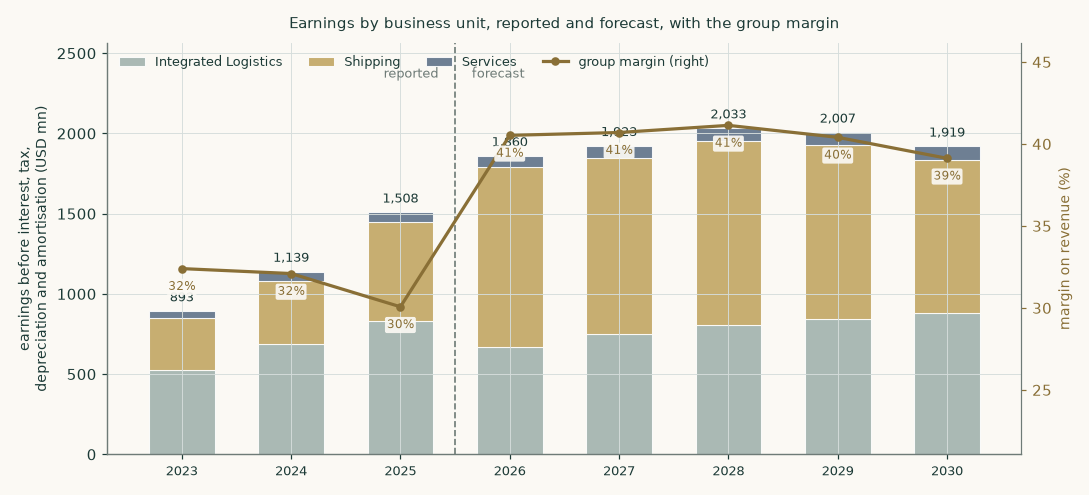
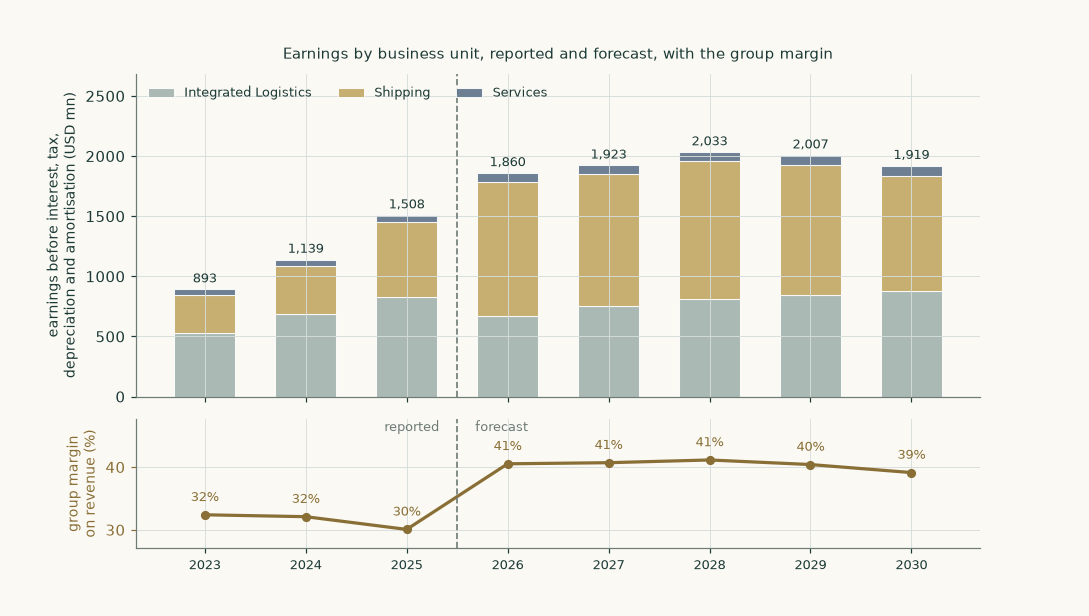
ADNOCLS: record the realised vessel sale as evidence for the book lens
A 2017-built crude carrier sold in January 2026 for USD 111 million against USD 83
million of carrying value. It is the only direct evidence available on how far the
balance sheet understates what the fleet would fetch, and it tells the reader which
way the book-value lens is biased.

Claude-Session: https://claude.ai/code/session_01FX6uP9o59mB1WpgL9CePqV

diff --git a/engine/adnocls_study/figures.py b/engine/adnocls_study/figures.py
@@ -251,44 +251,40 @@ rev_tot = np.array([sum(GH[g]['revenue'][i] for g in GROUPS) for i in range(3)] 
                    [sum(FG[g]['rev'][i] for g in GROUPS) for i in range(5)]) / 1000.0
 margin = tot / rev_tot
 cols = {'Integrated Logistics': SAGE, 'Shipping': GOLD, 'Services': SLATE}
-fig, ax = plt.subplots(figsize=(9.9, 4.5), dpi=110)
+fig, (axb, axm) = plt.subplots(2, 1, figsize=(9.9, 5.6), dpi=110, sharex=True,
+                               gridspec_kw={'height_ratios': [2.5, 1.0], 'hspace': 0.10})
 xs = np.arange(len(yrs))
 bottom = np.zeros(len(yrs))
 for g in GROUPS:
     v = np.array(series[g])
-    ax.bar(xs, v, width=0.60, bottom=bottom, color=cols[g], alpha=0.88, label=g,
-           edgecolor='#FFFFFF', linewidth=0.7)
+    axb.bar(xs, v, width=0.60, bottom=bottom, color=cols[g], alpha=0.88, label=g,
+            edgecolor='#FFFFFF', linewidth=0.7)
     bottom = bottom + v
 for i, t in enumerate(tot):
-    ax.text(i, t + 0.030 * tot.max(), f'{t:,.0f}', ha='center', fontsize=8.4, color=INK)
-ax.axvline(2.5, color=GREY, lw=1.1, ls='--')
-ax.text(2.42, tot.max() * 1.155, 'reported  ', ha='right', fontsize=8.4, color=GREY)
-ax.text(2.58, tot.max() * 1.155, '  forecast', ha='left', fontsize=8.4, color=GREY)
-ax.set_ylim(0, tot.max() * 1.26)
-ax.set_ylabel('earnings before interest, tax,\ndepreciation and amortisation (USD mn)',
-              fontsize=9)
-ax.set_xticks(xs)
-ax.set_xticklabels(yrs, fontsize=8.8)
-axm = ax.twinx()
-axm.plot(xs, margin * 100, color=BRASS, lw=2.1, marker='o', ms=4.6,
-         label='group margin (right)')
+    axb.text(i, t + 0.028 * tot.max(), f'{t:,.0f}', ha='center', fontsize=8.4, color=INK)
+axb.axvline(2.5, color=GREY, lw=1.1, ls='--')
+axb.set_ylim(0, tot.max() * 1.32)
+axb.set_ylabel('earnings before interest, tax,\ndepreciation and amortisation (USD mn)',
+               fontsize=9)
+axb.legend(frameon=False, fontsize=8.5, loc='upper left', labelcolor=INK, ncol=3)
+axb.set_title('Earnings by business unit, reported and forecast, with the group margin',
+              fontsize=10, pad=10)
+style(axb)
+
+axm.plot(xs, margin * 100, color=BRASS, lw=2.1, marker='o', ms=5)
 for i, m in enumerate(margin):
     axm.annotate(f'{m*100:.0f}%', (i, m * 100), textcoords='offset points',
-                 xytext=(0, -14), ha='center', fontsize=8.0, color=BRASS,
-                 bbox=dict(boxstyle='round,pad=0.16', facecolor=BG, edgecolor='none',
-                           alpha=0.92))
-axm.set_ylabel('margin on revenue (%)', color=BRASS, fontsize=9)
+                 xytext=(0, 9), ha='center', fontsize=8.2, color=BRASS)
+axm.axvline(2.5, color=GREY, lw=1.1, ls='--')
+lo_m, hi_m = min(margin) * 100, max(margin) * 100
+axm.set_ylim(lo_m - 3.0, hi_m + 6.5)
+axm.text(2.40, hi_m + 4.6, 'reported  ', ha='right', fontsize=8.6, color=GREY)
+axm.text(2.60, hi_m + 4.6, '  forecast', ha='left', fontsize=8.6, color=GREY)
+axm.set_ylabel('group margin\non revenue (%)', color=BRASS, fontsize=9)
 axm.tick_params(axis='y', colors=BRASS)
-axm.set_ylim(min(margin) * 100 - 9, max(margin) * 100 + 5)
-axm.grid(False)
-axm.spines['top'].set_visible(False)
-h1, l1 = ax.get_legend_handles_labels()
-h2, l2 = axm.get_legend_handles_labels()
-ax.legend(h1 + h2, l1 + l2, frameon=False, fontsize=8.4, loc='upper left',
-          labelcolor=INK, ncol=4)
-ax.set_title('Earnings by business unit, reported and forecast, with the group margin',
-             fontsize=10, pad=10)
-style(ax)
+axm.set_xticks(xs)
+axm.set_xticklabels(yrs, fontsize=8.8)
+style(axm)
 fig.tight_layout()
 save(fig, 'fig7_mix.png')
 
@@ -318,17 +314,18 @@ mid = D['fleet']['tce_mid']
 for key, lbl, col in CLS:
     ax.plot([-0.35, len(QLAB) - 0.55], [mid[key]] * 2, color=col, lw=1.0, ls=':',
             alpha=0.75, zorder=1)
-ax.text(-0.30, mid['vlcc'] * 1.05, 'dotted lines: the mid-cycle rate each class '
-        'reverts to in the forecast', fontsize=8.2, color=GREY, va='bottom', ha='left')
+ax.text(0.15, 165000, 'dotted lines: the mid-cycle rate each class reverts to in the '
+        'forecast', fontsize=8.2, color=GREY, va='center', ha='left')
 ax.set_yscale('log')
 ticks = [20000, 30000, 50000, 80000, 130000, 200000, 300000]
 ax.set_yticks(ticks)
 ax.set_yticklabels([f'{t/1000:,.0f}k' for t in ticks], fontsize=8.6)
-ax.set_ylim(17000, 380000)
+ax.yaxis.set_minor_formatter(matplotlib.ticker.NullFormatter())
+ax.set_ylim(13500, 400000)
 ax.set_xticks(xs)
 ax.set_xticklabels(QLAB, fontsize=8.4)
 ax.set_xlim(-0.45, len(QLAB) - 0.20)
-ax.text(8.5, 330000, 'first quarter reported;\nsecond quarter as indicated',
+ax.text(8.5, 392000, 'first quarter reported;\nsecond quarter as indicated',
         ha='center', va='top', fontsize=8.4, color=BRASS)
 ax.set_ylabel('time-charter equivalent (USD per vessel per day, log scale)', fontsize=9)
 ax.legend(frameon=False, fontsize=8.5, ncol=4, labelcolor=INK, loc='lower left')

diff --git a/engine/adnocls_study/compute.py b/engine/adnocls_study/compute.py
@@ -442,6 +442,12 @@ IN('ebitda_rep_fy24', 1148796, FS24 + SEG_SRC + " — the company's own EBITDA t
    '2024-12-31', 'Company')
 IN('ebitda_rep_fy25', 1514621, FS25 + SEG_SRC + " — the company's own EBITDA total",
    '2025-12-31', 'Company')
+IN('vessel_sale_price', 111000, "ADNOC L&S plc, FY2025 earnings release" + " — sale of a 2017-built very large crude "
+   "carrier, 90% owned, completed January 2026", '2026-01-31', 'Company')
+IN('vessel_sale_book', 83000, "ADNOC L&S plc, FY2025 earnings release" + " — the same vessel's carrying value",
+   '2026-01-31', 'Company')
+IN('vessel_sale_gain', 27000, "ADNOC L&S plc, FY2025 earnings release" + " — the capital gain recognised on that sale",
+   '2026-01-31', 'Company')
 IN('gw_growth_assumption', 0.02, FS25 + " — goodwill note: the company's own value-in-use "
    "test projects cash flows beyond the explicit plan at a growth rate equivalent to an "
    "estimated 2% inflation rate", '2025-12-31', 'Company')
@@ -1238,6 +1244,8 @@ g_b = V['g_terminal']
 pb_fair = (roe_sust - g_b) / (ke - g_b)
 bvps_now = (V['q1_26_eqp']) / shares_mn / 1000.0
 book = dict(roe_sustainable=roe_sust, ke=ke, g=g_b, pb_fair=pb_fair,
+            vessel_sale_price=V['vessel_sale_price'], vessel_sale_book=V['vessel_sale_book'],
+            vessel_value_to_book=V['vessel_sale_price'] / V['vessel_sale_book'],
             bvps_usd=bvps_now, bvps_aed=bvps_now * peg,
             base=pb_fair * bvps_now * peg,
             bear=((roe_sust * 0.85) - g_b) / (ke_beta1 - g_b) * bvps_now * peg,
